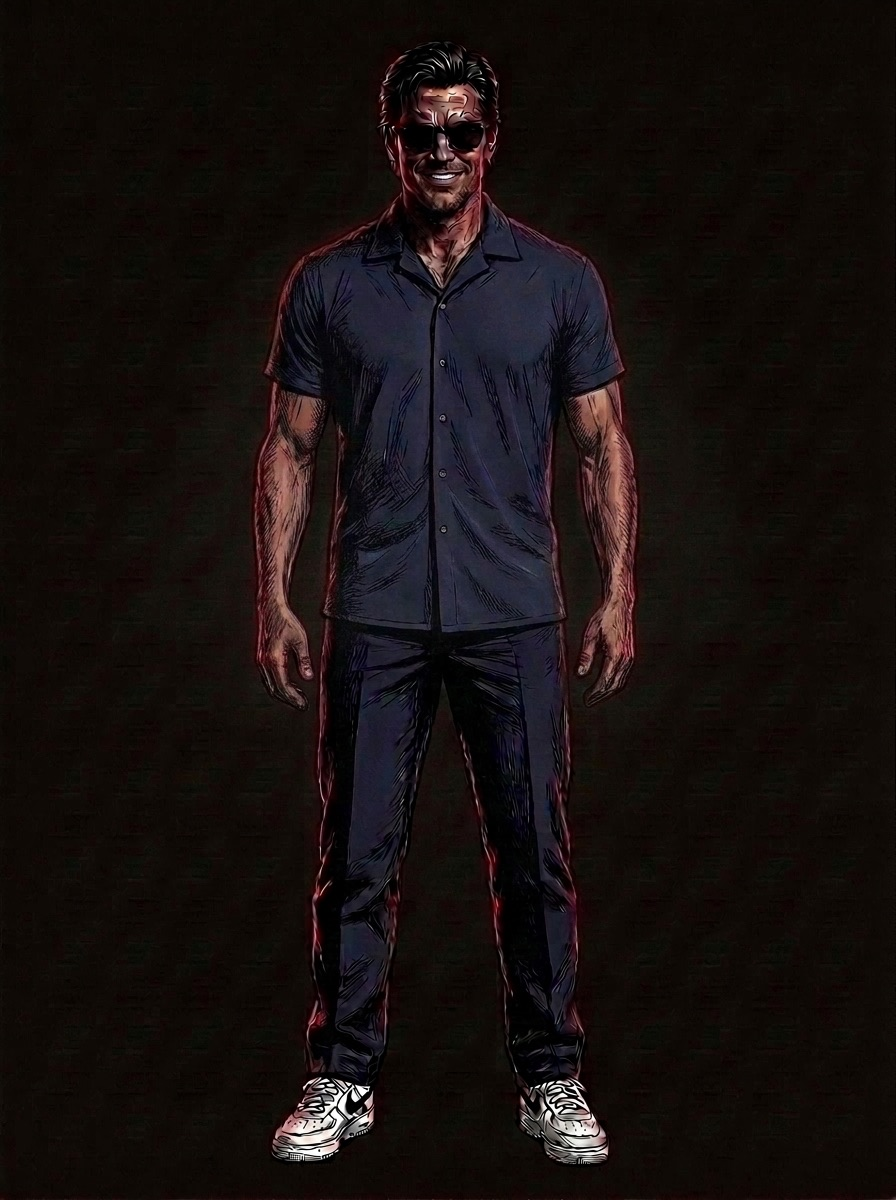
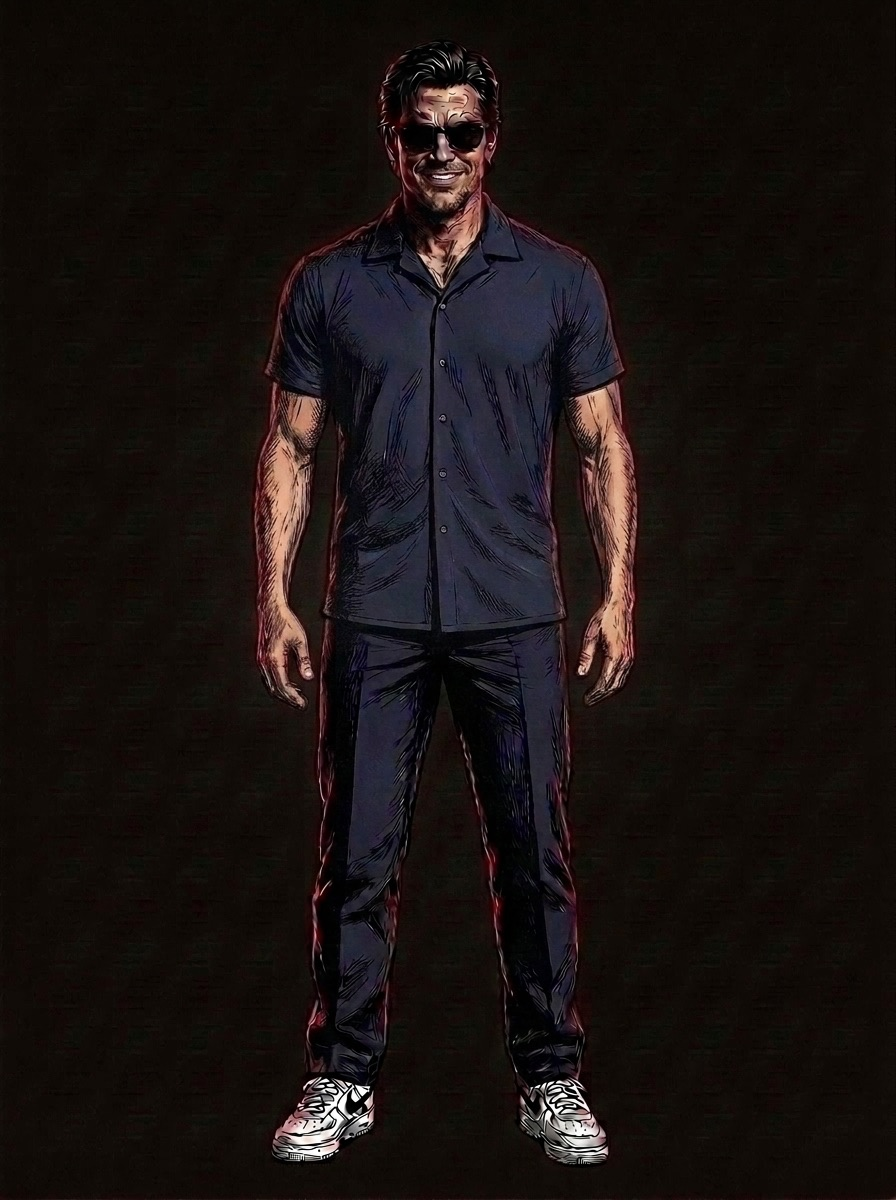
agents: last Atlas mention removed; Pflash frame relit to match clean neutral light

diff --git a/assets/stage.js b/assets/stage.js
@@ -286,7 +286,7 @@
     pflash: ['000'],   /* Dan 10/16: no spinning; straight on. The other seven frames stay in assets/turn/pflash/ if ever wanted. */
     atlas: ['000']   /* one frame so far, so it stands still (and no 404s in the console); add '045' ... as the frames arrive in assets/turn/atlas/ */
   };
-  var FRAME_VER = '20261016-13';   /* bump whenever a frame image is replaced, so browsers refetch it */
+  var FRAME_VER = '20261016-14';   /* bump whenever a frame image is replaced, so browsers refetch it */
   function frameUrls(dir){ return TURN[dir].map(function(a){ return 'assets/turn/' + dir + '/' + a + '.jpg?v=' + FRAME_VER; }); }
   /* mount a turnaround in `fig` (needs a .pf-2d host and a .pf-disc inside it): o.dir, o.ready(handle), o.fail() */
   function mount2d(o){

diff --git a/agents.html b/agents.html
@@ -134,7 +134,6 @@
     <p class="pf-owner">Licenses are the owner's. Activating one on the agent is the owner's act; a counterparty may still ask to see the owner.</p>
   </section>
 
-  <!-- STAGE TWO: ATLAS, agent no. 2 (static until Atlas has a key) -->
   <!-- WHAT YOU'RE LOOKING AT -->
   <section class="block wrap" id="looking">
     <h2 class="section-title">What you're looking at</h2>
@@ -214,7 +213,7 @@
 </footer>
 
 <script src="assets/stage2d.js?v=1" defer></script>
-<script src="assets/stage.js?v=21" defer></script>
+<script src="assets/stage.js?v=22" defer></script>
 <script>
 /* Same submit behavior as index.html's #scanForm: validate lightly, then go to scan.html?addr=<value>. */
 document.getElementById('scanForm').addEventListener('submit', function(e){
